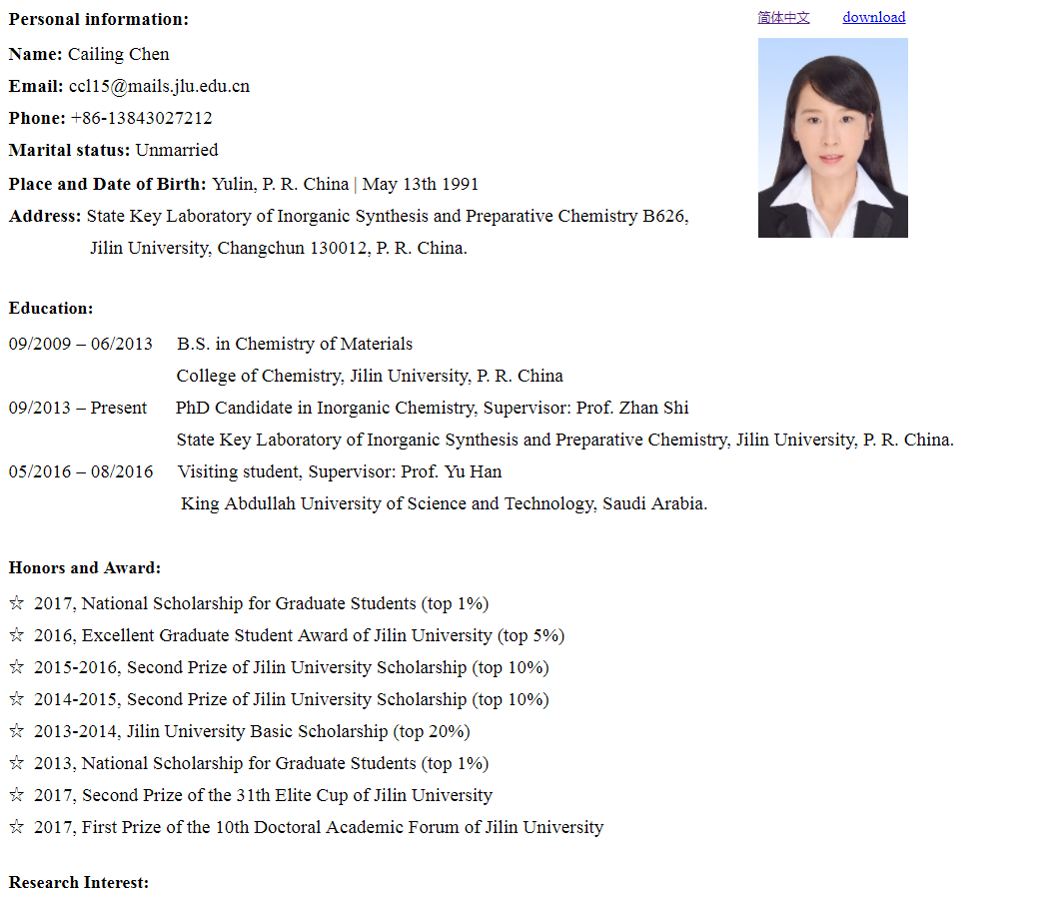
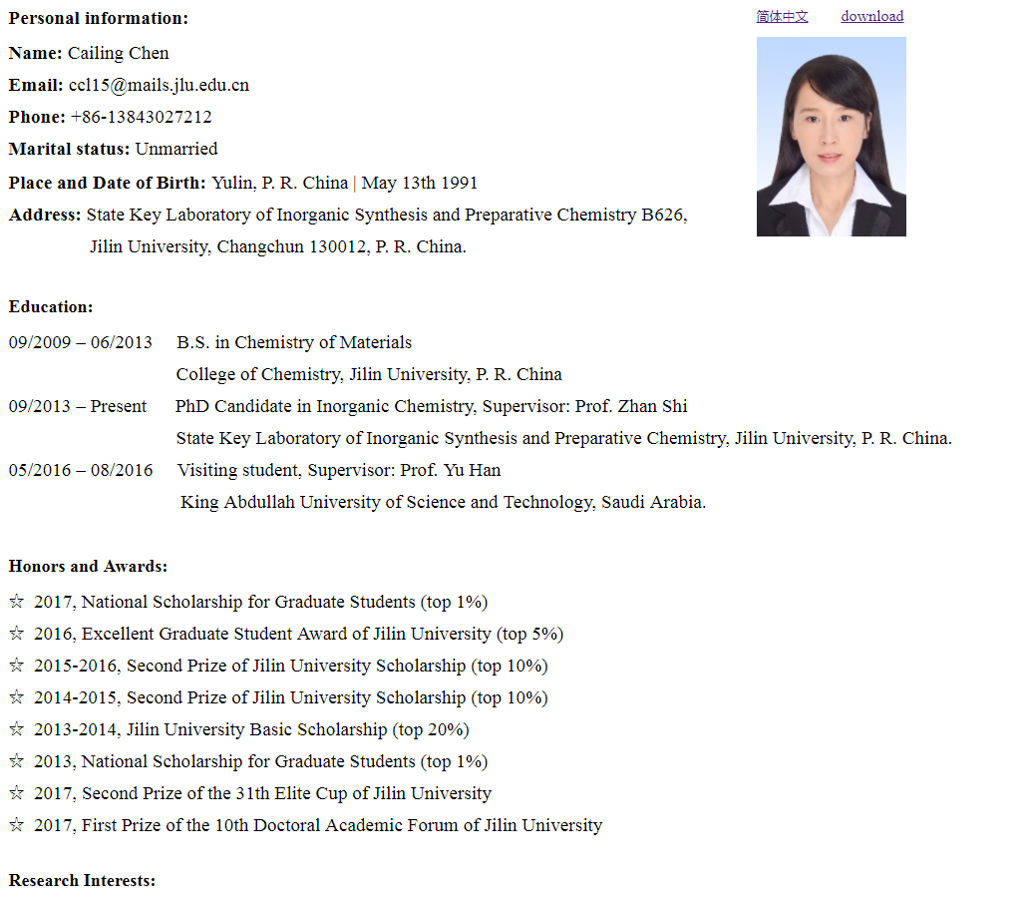
Add files via upload

diff --git a/resume.EN.html b/resume.EN.html
@@ -61,7 +61,7 @@ Jilin University, Changchun 130012, P. R. China.
 
  
 <div id="content" style='height:30px;width:800px;float:left;'>
-<font size='4';><b>Honors and Award:</b></font>
+<font size='4';><b>Honors and Awards:</b></font>
 </div>
 
 <div id='content' style='height:285px;width:900px;float:left;line-height:170%;'>
@@ -78,7 +78,7 @@ Jilin University, Changchun 130012, P. R. China.
 
 
 <div id="content" style='height:30px;width:800px;float:left;'>
-<font size='4';><b>Research Interest:</b></font>
+<font size='4';><b>Research Interests:</b></font>
 </div>
 
 <div id='content' style='height:160px;width:1000px;float:left;line-height:170%;'>
